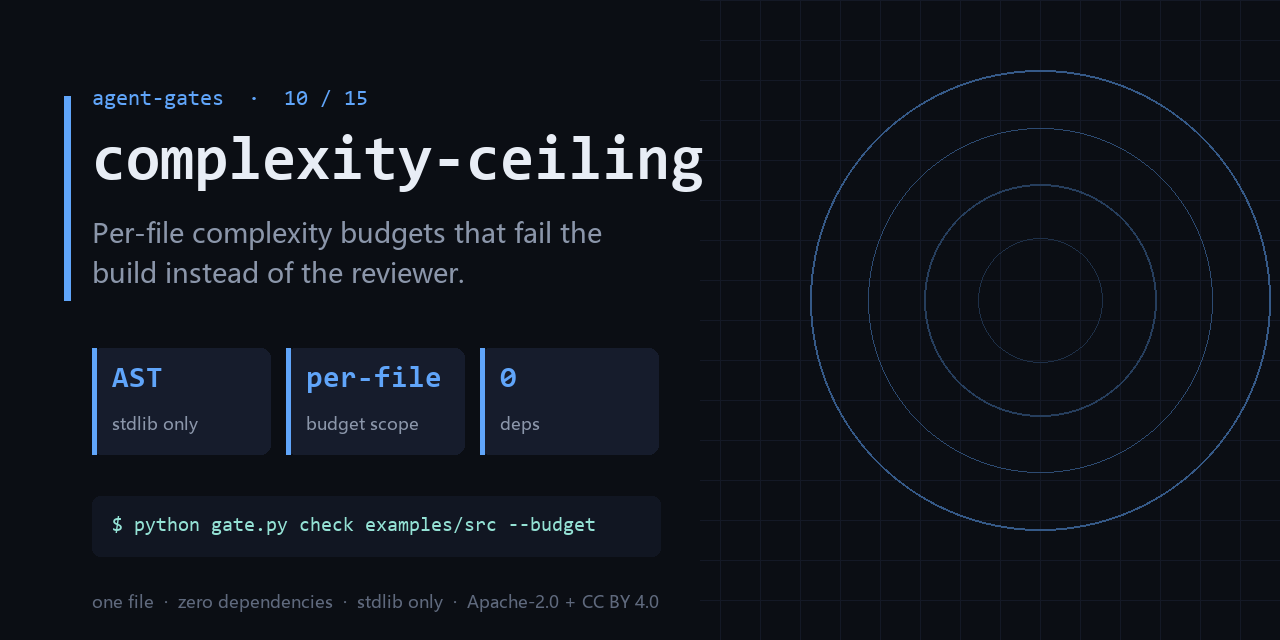
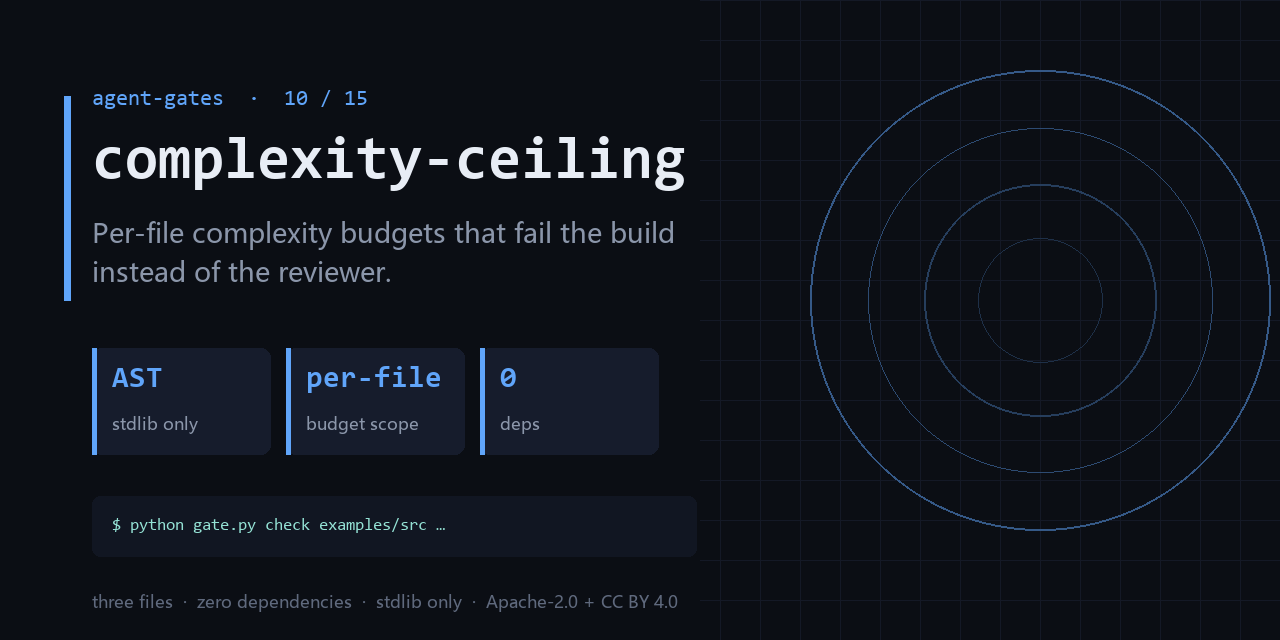
docs: add the series entry map, the hot-ready guarantee, and an honest surface line
Three changes, all of them about not overselling:

1. `## Start here` — fifteen links is a maze, one symptom is a door. A six-row
   symptom -> gate table, so the reader installs the gate they need instead of
   installing nothing (or all fifteen). Also states the star rule plainly:
   no exchange, no unlock, star trading is against GitHub's rules.
2. `## Hot-ready guarantee` — replaces "guaranteed to trend" with fifteen
   machine-checked structural properties, current score, and the script that
   recomputes them. GitHub never published its Trending ranking, so a promise
   about ranking cannot be true; a promise about structure can be verified.
3. The subtitle said `one file` on every repo. It was false on four of them
   (output-gate has 7 python files, complexity-ceiling 3, deadcode-gate and
   trail-gate 2). The line is now computed from the actual file count, and the
   same number is used on the social card. A false claim on the first screen
   costs more trust than it buys attention.

diff --git a/README.md b/README.md
@@ -4,7 +4,7 @@
 
 <h1 align="center">complexity-ceiling</h1>
 
-<p align="center"><b>Per-file complexity budgets that fail the build instead of the reviewer.</b><br><sub>one file · zero dependencies · stdlib only</sub></p>
+<p align="center"><b>Per-file complexity budgets that fail the build instead of the reviewer.</b><br><sub>three files · zero dependencies · stdlib only</sub></p>
 
 <p align="center"><a href="https://github.com/chenhz01/complexity-ceiling/actions/workflows/gate.yml"><img src="https://github.com/chenhz01/complexity-ceiling/actions/workflows/gate.yml/badge.svg" alt="tests"></a> <img src="https://img.shields.io/badge/python-3.9%2B-3776AB?style=flat-square" alt="python"> <img src="https://img.shields.io/badge/dependencies-0-2ea44f?style=flat-square" alt="deps"> <img src="https://img.shields.io/badge/license-Apache--2.0%20%2B%20CC%20BY%204.0-blue?style=flat-square" alt="license"></p>
 
@@ -102,6 +102,66 @@ mistaken for "it inspected my files".
 一行命令：`python gate.py check examples/src --budget examples/budget.json`
 
 边界：Complexity is a proxy, not a verdict. Simple code can still be wrong.
+
+### 互推：只装一个的话，装哪个
+
+十五个链接是迷宫，一个症状是门。按上表挑一个，其余九个在下面 [The gates](#the-gates)。
+每个仓都能单独活：复制 `gate.py`，一条命令跑完，不共享运行时、不装包、不加配置。
+有星就给这一个，没有也不影响任何仓的可用性——没有任何门是「先给星才能用」。
+
+### 热门前置：保证结构，不保证排名
+
+本页承诺的是 **15 项可机器复核的结构特征**，当前 **15/15**（2026-10-20 复核）。
+GitHub 从未公开 Trending 的排序算法，所以任何「保证上热门」的说法都在描述一件它不可能知道的事；
+本仓不这么说。跑 `python hotness.py` 可自行复算每一条。
+
+## Start here (if you install only one)
+
+Fifteen links is a maze; one symptom is a door. Find your symptom, install that gate,
+ignore the rest until it hurts.
+
+| what you are seeing | install this |
+|---|---|
+| the bill is 10x normal and the trace is a wall of the same step | **[loop-gate](https://github.com/chenhz01/loop-gate)** |
+| the agent can delete prod and nobody signed off on that | **[permission-gate](https://github.com/chenhz01/permission-gate)** |
+| answers get worse after truncation and nobody knows what got dropped | **[context-gate](https://github.com/chenhz01/context-gate)** |
+| two rules in the prompt contradict each other; the model obeys neither | **[instruction-gate](https://github.com/chenhz01/instruction-gate)** |
+| AI text ships with fabricated links and empty phrases | **[output-gate](https://github.com/chenhz01/output-gate)** |
+| half the repo might be dead and nobody can prove which half | **[deadcode-gate](https://github.com/chenhz01/deadcode-gate)** |
+
+A gate you did not need is a gate you uninstall, so nothing here says "install all
+fifteen". Each repo stands alone: copy `gate.py`, run one command, no shared runtime,
+no package manager, no config file to grow.
+
+**On stars.** If this one saved you an incident, star it — that is the only signal I get
+about which gate to build next. There is no exchange: starring one repo does not owe me
+a star on another, and no gate here is unlocked by a star. Star trading breaks GitHub's
+rules and would poison the single honest metric this project has.
+
+## Hot-ready guarantee
+
+What is guaranteed is **structure**, not ranking. Fifteen properties, each one
+machine-checked against this repo — current score **15/15** (2026-10-20).
+
+Plain version: instead of asking you to trust a badge, I list what I actually checked,
+name the script that checks it, and let you re-run it. If one of these lines is false,
+that is a bug in my repo, not a matter of taste.
+
+- Falsifiable side: `python hotness.py` re-runs every check and prints the evidence line
+  for each one. You do not have to trust this paragraph.
+- Non-falsifiable side: GitHub has never published how Trending sorts repositories, so
+  any repo promising you a guaranteed spot is telling you something it cannot know.
+  This one does not make that promise.
+- If a claim on this page stops being true, that is a bug: open an issue and it gets
+  fixed in the same week, not in the next launch.
+
+What actually carries this repo:
+
+- the command in this README is byte-for-byte the command CI runs <sub>(56-char argv, exact match)</sub>
+- the output block is a real run of `examples/`, not a mock-up <sub>(Real output section)</sub>
+- CI asserts the exit code, so the badge can turn red — and it has <sub>(asserts exit=1)</sub>
+- every fixture is committed, so a fresh clone reproduces the output <sub>(3 files under examples/ tracked in git)</sub>
+- `* -text` in `.gitattributes`: same bytes on Windows and Linux <sub>(.gitattributes * -text)</sub>
 
 ## The gates
 
